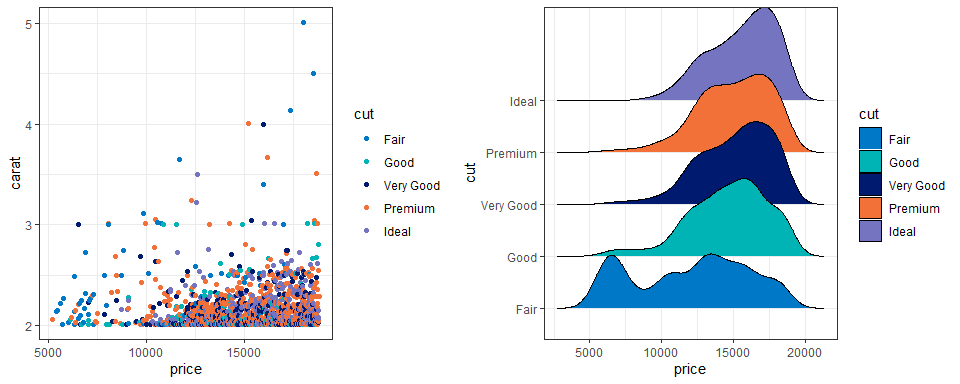
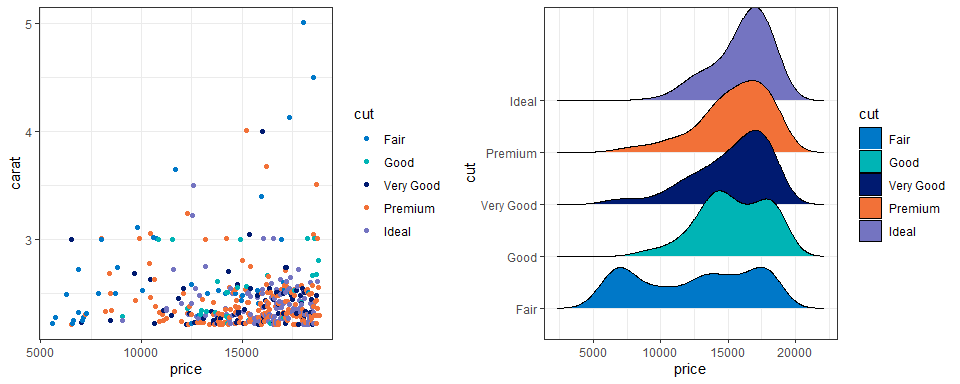
updated readme

diff --git a/README.md b/README.md
@@ -72,7 +72,7 @@ library(patchwork)
 
 ``` r
 large_diamonds <- diamonds %>% 
-  filter(carat > 2)
+  filter(carat > 2.2)
 
 pc <- ggplot(large_diamonds, aes(price, carat, color = cut)) + 
   geom_point() + 
